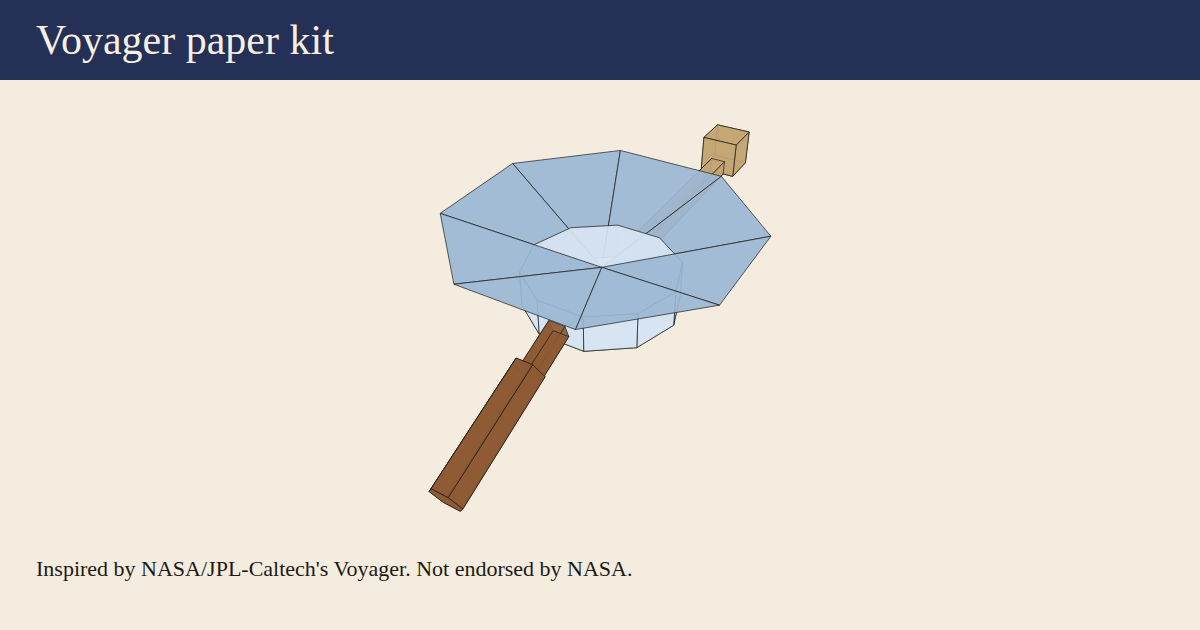
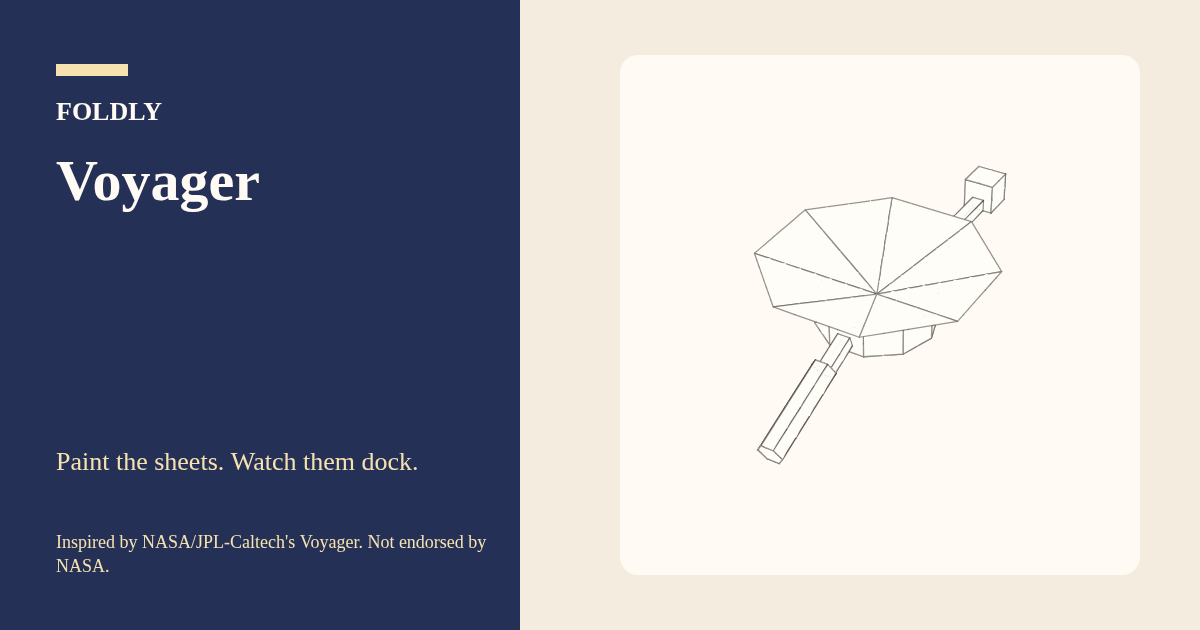
Fix Voyager depth sorting and drop the printable kit page.
The dish is drawn from split triangles so the bus top no longer covers its inside. The kit page moves to cursor/voyager-print-kit-wip and is not linked from this branch.

diff --git a/assets/js/project.js b/assets/js/project.js
@@ -316,7 +316,16 @@ function buildAssembly(model, prep, angles, camera, size) {
         const p1 = cam[i];
         const p2 = cam[i + 1];
         const facing = (p1.x - p0.x) * (p2.y - p0.y) - (p2.x - p0.x) * (p1.y - p0.y);
-        tris.push({ flapId: flap.id, partId: part.id, p0, p1, p2, facing, z: (p0.z + p1.z + p2.z) / 3 });
+        tris.push({
+          flapId: flap.id,
+          partId: part.id,
+          p0,
+          p1,
+          p2,
+          facing,
+          z: (p0.z + p1.z + p2.z) / 3,
+          boundary: [i === 1, true, i + 1 === cam.length - 1],
+        });
       }
     }
   }
@@ -325,59 +334,91 @@ function buildAssembly(model, prep, angles, camera, size) {
   return { tris, polys };
 }
 
+function midpoint(a, b) {
+  return {
+    u: (a.u + b.u) / 2,
+    v: (a.v + b.v) / 2,
+    x: (a.x + b.x) / 2,
+    y: (a.y + b.y) / 2,
+    z: (a.z + b.z) / 2,
+  };
+}
+
+/** Split a large face so painter's order follows the surface, not one face centre. */
+function splitPainterTri(tri, depth, minEdge) {
+  const e01 = Math.hypot(tri.p1.x - tri.p0.x, tri.p1.y - tri.p0.y);
+  const e12 = Math.hypot(tri.p2.x - tri.p1.x, tri.p2.y - tri.p1.y);
+  const e20 = Math.hypot(tri.p0.x - tri.p2.x, tri.p0.y - tri.p2.y);
+  if (depth <= 0 || Math.max(e01, e12, e20) < minEdge) return [tri];
+  const m01 = midpoint(tri.p0, tri.p1);
+  const m12 = midpoint(tri.p1, tri.p2);
+  const m20 = midpoint(tri.p2, tri.p0);
+  const zOf = (a, b, c) => (a.z + b.z + c.z) / 3;
+  const kids = [
+    { ...tri, p0: tri.p0, p1: m01, p2: m20, boundary: [tri.boundary[0], false, tri.boundary[2]], z: zOf(tri.p0, m01, m20) },
+    { ...tri, p0: m01, p1: tri.p1, p2: m12, boundary: [tri.boundary[0], tri.boundary[1], false], z: zOf(m01, tri.p1, m12) },
+    { ...tri, p0: m20, p1: m12, p2: tri.p2, boundary: [false, tri.boundary[1], tri.boundary[2]], z: zOf(m20, m12, tri.p2) },
+    { ...tri, p0: m01, p1: m12, p2: m20, boundary: [false, false, false], z: zOf(m01, m12, m20) },
+  ];
+  return kids.flatMap((kid) => splitPainterTri(kid, depth - 1, minEdge));
+}
+
+function growFromCenter(p, cx, cy, px) {
+  const dx = p.x - cx;
+  const dy = p.y - cy;
+  const len = Math.hypot(dx, dy) || 1;
+  return { ...p, x: p.x + (dx / len) * px, y: p.y + (dy / len) * px };
+}
+
 function paintAssembly(ctx, model, prep, angles, camera, front, back, size, fit, textures) {
   const built = buildAssembly(model, prep, angles, camera, size);
-  const faces = built.polys.map((poly) => ({ ...poly, pts: poly.pts.map((p) => movePoint(p, fit)) }));
-  const tris = built.tris.map((tri) => ({
+  const moved = built.tris.map((tri) => ({
     ...tri,
+    boundary: tri.boundary || [true, true, true],
     p0: movePoint(tri.p0, fit),
     p1: movePoint(tri.p1, fit),
     p2: movePoint(tri.p2, fit),
   }));
-  const byFlap = new Map();
-  for (const tri of tris) {
-    const key = `${tri.partId}:${tri.flapId}`;
-    if (!byFlap.has(key)) byFlap.set(key, []);
-    byFlap.get(key).push(tri);
-  }
+  const pieces = moved.flatMap((tri) => splitPainterTri(tri, 3, Math.max(28, size * 0.055)));
+  pieces.sort((a, b) => a.z - b.z);
   const pair = (partId) => {
     if (textures && textures[partId]) return textures[partId];
     return { front, back };
   };
   ctx.save();
   ctx.lineJoin = "round";
-  for (const face of faces) {
-    const images = pair(face.partId);
-    const faceTris = byFlap.get(`${face.partId}:${face.flapId}`) || [];
-    for (const tri of faceTris) {
-      const image = tri.facing >= 0 ? images.front : images.back;
-      const w = image.width || 1024;
-      const h = image.height || 1024;
-      const uv = (p) => ({ x: (tri.facing >= 0 ? p.u : 1 - p.u) * w, y: p.v * h });
-      drawTexturedTriangle(ctx, image, uv(tri.p0), uv(tri.p1), uv(tri.p2), tri.p0, tri.p1, tri.p2);
-    }
-    if (faceTris.length > 1) {
-      const seam = Math.max(1.5, size / 200);
-      for (const tri of faceTris) {
-        const image = tri.facing >= 0 ? images.front : images.back;
-        const color = solidSeamColor(image, tri);
-        if (!color) continue;
-        ctx.beginPath();
-        ctx.moveTo(tri.p0.x, tri.p0.y);
-        ctx.lineTo(tri.p2.x, tri.p2.y);
-        ctx.strokeStyle = color;
-        ctx.lineWidth = seam;
-        ctx.lineCap = "round";
-        ctx.stroke();
-      }
-    }
-    if (face.pts.length < 2) continue;
+  ctx.lineCap = "round";
+  ctx.strokeStyle = "rgba(28, 24, 18, 0.45)";
+  ctx.lineWidth = Math.max(1, size / 280);
+  const bleed = 0.7;
+  for (const tri of pieces) {
+    const images = pair(tri.partId);
+    const image = tri.facing >= 0 ? images.front : images.back;
+    const w = image.width || 1024;
+    const h = image.height || 1024;
+    const uv = (p) => ({ x: (tri.facing >= 0 ? p.u : 1 - p.u) * w, y: p.v * h });
+    const cx = (tri.p0.x + tri.p1.x + tri.p2.x) / 3;
+    const cy = (tri.p0.y + tri.p1.y + tri.p2.y) / 3;
+    drawTexturedTriangle(
+      ctx,
+      image,
+      uv(tri.p0),
+      uv(tri.p1),
+      uv(tri.p2),
+      growFromCenter(tri.p0, cx, cy, bleed),
+      growFromCenter(tri.p1, cx, cy, bleed),
+      growFromCenter(tri.p2, cx, cy, bleed)
+    );
+    const edges = [[tri.p0, tri.p1], [tri.p1, tri.p2], [tri.p2, tri.p0]];
     ctx.beginPath();
-    face.pts.forEach((p, i) => (i ? ctx.lineTo(p.x, p.y) : ctx.moveTo(p.x, p.y)));
-    ctx.closePath();
-    ctx.strokeStyle = "rgba(28, 24, 18, 0.45)";
-    ctx.lineWidth = Math.max(1, size / 280);
-    ctx.stroke();
+    let drew = false;
+    tri.boundary.forEach((on, index) => {
+      if (!on) return;
+      ctx.moveTo(edges[index][0].x, edges[index][0].y);
+      ctx.lineTo(edges[index][1].x, edges[index][1].y);
+      drew = true;
+    });
+    if (drew) ctx.stroke();
   }
   ctx.restore();
 }

diff --git a/_layouts/model.html b/_layouts/model.html
@@ -29,7 +29,8 @@ layout: default
       <dd>
         {% if fact.lightday %}
         <span data-lightday>
-          <span data-before>{{ fact.before }}</span>
+          <span data-static>{{ fact.text }}</span>
+          <span data-before hidden>{{ fact.before }}</span>
           <span data-after hidden>{{ fact.after }}</span>
         </span>
         {% else %}
@@ -79,16 +80,8 @@ layout: default
   </aside>
 
   <p class="cta-row no-print"><a class="btn primary xl" href="{{ site.baseurl }}/fold/#m={{ page.model_id }}">Paint yours online</a></p>
-  {% if page.kit_url %}
-  <p class="cta-row no-print"><a class="btn" href="{{ site.baseurl }}{{ page.kit_url }}">Print the paper kit</a></p>
-  {% endif %}
 
-  {% if model.type == "assembly" %}
-  <section class="print-only">
-    <h2>Printable kit</h2>
-    <p>The four nets are on the kit page. Print that page at 100% scale. It fits A4 and US Letter.</p>
-  </section>
-  {% elsif model.sheet %}
+  {% if model.sheet %}
   <section class="print-only crease-wrap is-net">
     <h2>Printable net</h2>
     <svg viewBox="{% if model.print_view %}{{ model.print_view | join: ' ' }}{% else %}0 0 100 100{% endif %}" role="img" aria-label="Net to cut out and glue">

diff --git a/assets/js/model-page.js b/assets/js/model-page.js
@@ -46,11 +46,18 @@ document.querySelectorAll(".step-diagram").forEach((svg) => {
   drawStepDiagram(svg, model, Number(svg.dataset.step));
 });
 
-const lightDay = document.querySelector("[data-lightday]");
-if (lightDay) {
+function syncLightDay() {
   const passed = Date.now() >= Date.parse("2026-11-18T10:16:07Z");
-  const before = lightDay.querySelector("[data-before]");
-  const after = lightDay.querySelector("[data-after]");
-  if (before) before.hidden = passed;
-  if (after) after.hidden = !passed;
+  document.querySelectorAll("[data-lightday]").forEach((lightDay) => {
+    const steady = lightDay.querySelector("[data-static]");
+    const before = lightDay.querySelector("[data-before]");
+    const after = lightDay.querySelector("[data-after]");
+    if (steady) steady.hidden = true;
+    if (before) before.hidden = passed;
+    if (after) after.hidden = !passed;
+  });
 }
+syncLightDay();
+document.addEventListener("visibilitychange", () => {
+  if (document.visibilityState === "visible") syncLightDay();
+});

diff --git a/assets/js/codec.js b/assets/js/codec.js
@@ -257,6 +257,10 @@ export function serializeAssembly(entries) {
   for (const [id, strokes] of entries) {
     const idBytes = new TextEncoder().encode(id);
     const body = serialize(strokes);
+    if (body.length > 65535) {
+      const err = new Error("sheet-too-long");
+      throw err;
+    }
     const head = new Uint8Array(1 + idBytes.length + 2);
     head[0] = idBytes.length;
     head.set(idBytes, 1);
@@ -292,7 +296,13 @@ export function deserializeAssembly(bytes) {
 }
 
 export async function encodeAssemblyPayload(entries) {
-  const raw = serializeAssembly(entries);
+  let raw;
+  try {
+    raw = serializeAssembly(entries);
+  } catch (err) {
+    if (err && err.message === "sheet-too-long") return { token: null, tooDetailed: true, length: SHARE_LIMIT + 1 };
+    throw err;
+  }
   let token = `r${b64url(raw)}`;
   if (typeof CompressionStream === "function") {
     try {

diff --git a/assets/js/studio.js b/assets/js/studio.js
@@ -424,15 +424,15 @@ function syncShareActions() {
 function holdDesktopPage() {
   if (window.matchMedia("(max-width: 879px)").matches) return;
   heldScrollY = window.scrollY;
-  document.body.style.minHeight = `${document.documentElement.scrollHeight}px`;
-  document.documentElement.style.overflowAnchor = "none";
+  // Keep the extra height on the root, not the body. Stretching the body
+  // resamples its gradient and shifts the page colour by a few levels.
+  document.documentElement.style.minHeight = `${document.documentElement.scrollHeight}px`;
   heldDesktop = true;
 }
 
 function releaseDesktopPage() {
   if (!heldDesktop) return;
-  document.body.style.minHeight = "";
-  document.documentElement.style.overflowAnchor = "";
+  document.documentElement.style.minHeight = "";
   heldDesktop = false;
 }
 

diff --git a/assets/css/site.css b/assets/css/site.css
@@ -186,8 +186,10 @@ main { padding: 28px 20px 64px; max-width: 1120px; margin: 0 auto; }
 .fact-links a { overflow-wrap: anywhere; }
 .sheet-tabs {
   display: flex;
+  flex-wrap: wrap;
   gap: 8px;
-  overflow-x: auto;
+  max-width: 100%;
+  min-width: 0;
   align-items: stretch;
   padding-bottom: 4px;
 }
@@ -234,7 +236,7 @@ main { padding: 28px 20px 64px; max-width: 1120px; margin: 0 auto; }
 .model-choice[aria-pressed="true"] { background: var(--indigo); color: #f6efe2; border-color: var(--indigo); }
 .model-title { font-family: var(--serif); font-size: 2rem; margin: 0; }
 .note { margin: 0; color: #5c5348; }
-.paper-wrap { display: grid; justify-items: center; }
+.paper-wrap { display: grid; justify-items: center; min-width: 0; }
 .paper, .fold-host {
   position: relative;
   width: min(100%, 640px);

diff --git a/_models/voyager.md b/_models/voyager.md
@@ -6,38 +6,38 @@ shelf: paper
 card_name: Voyager
 picker: Voyager
 studio_note: "Four sheets. Paint each one, then the parts fold and dock."
-seo_title: "Voyager paper model: fold a four-sheet kit"
+seo_title: "Voyager paper model: fold four sheets"
 og_image: /assets/img/og-voyager.png
-description: "Paint and fold a four-sheet paper kit inspired by Voyager. The drawing is Foldly's own. NASA has not endorsed it."
-intro: "This is a four-sheet paper kit of Voyager, not a square origami fold. The body, the dish, and two booms each fold on their own sheet, then come together. The magnetometer boom and the wire antennas are left out. Some sizes are stylised so the parts fit on paper."
+description: "Paint and fold a four-sheet paper model inspired by Voyager. The drawing is Foldly's own. NASA has not endorsed it."
+intro: "This is a four-sheet paper model of Voyager, not a square origami fold. The body, the dish, and two booms each fold on their own sheet, then come together on screen. The magnetometer boom and the wire antennas are left out. Some sizes are stylised."
 difficulty_label: Advanced
 time_label: "about 60–80 minutes"
 total_time: PT80M
-paper_tool: "Scissors and a glue stick"
-card: "A four-sheet paper kit. The parts fold, then dock."
-materials: "Four sheets of paper, scissors, and a glue stick. The printable kit fits A4 and US Letter."
+paper_tool: "Scissors"
+card: "Four sheets. The parts fold, then dock."
+materials: "Four sheets of paper and scissors."
 jsonld_supplies:
-  - "Four sheets of paper, scissors, and a glue stick."
-kit_url: /kits/voyager/
+  - "Four sheets of paper and scissors."
 credit: "Inspired by NASA/JPL-Caltech's Voyager. Not endorsed by NASA."
-teacher_note: "This is a paper kit, not a square fold, and not a NASA kit. Each sheet folds on its own, then the class glues the dish and the two booms onto the body. Glue tabs are only on the open edges. The gold circle is a plain stylised disc for the Golden Record. The dish depth, boom widths, scan platform, strut length, and 20° tilt are stylised."
+teacher_note: "This is a paper model on screen, not a square fold, and not a NASA model. The body, the dish, and two booms fold, then come together. Dish depth, boom widths, the scan platform, the strut length, and the 20° tilt are stylised."
 facts:
   - label: Launch
     text: "Voyager 2 on 20 Aug 1977, 14:29:44 UT (19:59 IST). Voyager 1 on 5 Sep 1977, 12:56:01 UT (18:26 IST). Both on a Titan IIIE-Centaur from Cape Canaveral, LC-41. NASA flew them; JPL designed and managed the mission."
   - label: Purpose
     text: "Fly past Jupiter and Saturn. Voyager 2 also flew past Uranus and Neptune. Both now study interstellar space."
   - label: Spacecraft
-    text: "A 3.66 m high-gain dish, a science boom of about 2.5 m, a 13 m magnetometer boom, and an RTG boom. This kit leaves out the magnetometer boom and the whips. Dish depth, boom widths, the scan platform, the strut length, and the 20° tilt are stylised."
+    text: "A 3.66 m high-gain dish, a science boom of about 2.5 m, a 13 m magnetometer boom, and an RTG boom. This model leaves out the magnetometer boom and the whips. Dish depth, boom widths, the scan platform, the strut length, and the 20° tilt are stylised."
   - label: Power
     text: "Three plutonium-oxide RTGs, about 470 W at launch. The Voyagers travel too far from the Sun to use solar panels."
   - label: Interstellar
     text: "Voyager 1 crossed into interstellar space on 25 Aug 2012. Voyager 2 crossed on 5 Nov 2018."
   - label: Golden Record
-    text: "A phonograph record with 115 images, natural sounds, music, and spoken greetings in 55 languages. On this kit it is a plain gold disc."
+    text: "A phonograph record with 115 images, natural sounds, music, and spoken greetings in 55 languages. In this model it is a plain gold disc."
   - label: One light-day
     lightday: true
-    before: "On Wednesday 18 Nov 2026 at 2:16:07 a.m. PST (10:16 UTC, 15:46 IST), Voyager 1 is about to reach 25.902 billion km from Earth, which is one light-day. It will be the first human-made object that far away."
-    after: "On Wednesday 18 Nov 2026 at 2:16:07 a.m. PST (10:16 UTC, 15:46 IST), Voyager 1 passed one light-day: 25.902 billion km from Earth. It is the first human-made object that far away."
+    text: "Voyager 1 reaches one light-day from Earth on 18 Nov 2026."
+    before: "Voyager 1 is due to reach one light-day from Earth on 18 Nov 2026."
+    after: "Voyager 1 passed one light-day from Earth on 18 Nov 2026."
     links:
       - title: "Voyager fact sheet"
         url: "https://science.nasa.gov/mission/voyager/fact-sheet/"
@@ -60,19 +60,19 @@ steps:
     tip: "The body is a ten-sided box. These five walls share one step."
   - text: "Fold the other five body walls up."
   - text: "Fold the top of the body shut."
-    tip: "This sheet has no glue tabs. Every edge meets another face. Glue along the dashed seams."
+    tip: "The top closes onto the walls."
   - text: "Close the dish into a shallow cone."
-    tip: "The eight triangles meet at a shallow angle. Shaded tabs stay on the open rim."
+    tip: "The eight triangles meet at a shallow angle."
   - text: "Fold two walls of the science boom up."
   - text: "Fold the last boom wall and the end plate."
   - text: "Fold the scan platform."
     tip: "The platform size is stylised."
   - text: "Fold the power strut into a square tube."
-    tip: "The strut length and the 20° tilt are stylised. Shaded tabs are only on the mouth that glues to the body."
+    tip: "The strut length and the 20° tilt are stylised."
   - text: "Fold the power unit into a six-sided tube."
   - text: "Cap the ends of the power unit."
   - text: "Body ready"
-    tip: "On screen, the folded body waits at the centre. On paper, set the body down."
+    tip: "On screen, the folded body waits at the centre."
   - text: "Attach the big dish"
   - text: "Slide in the science boom"
   - text: "Plug in the power boom"
